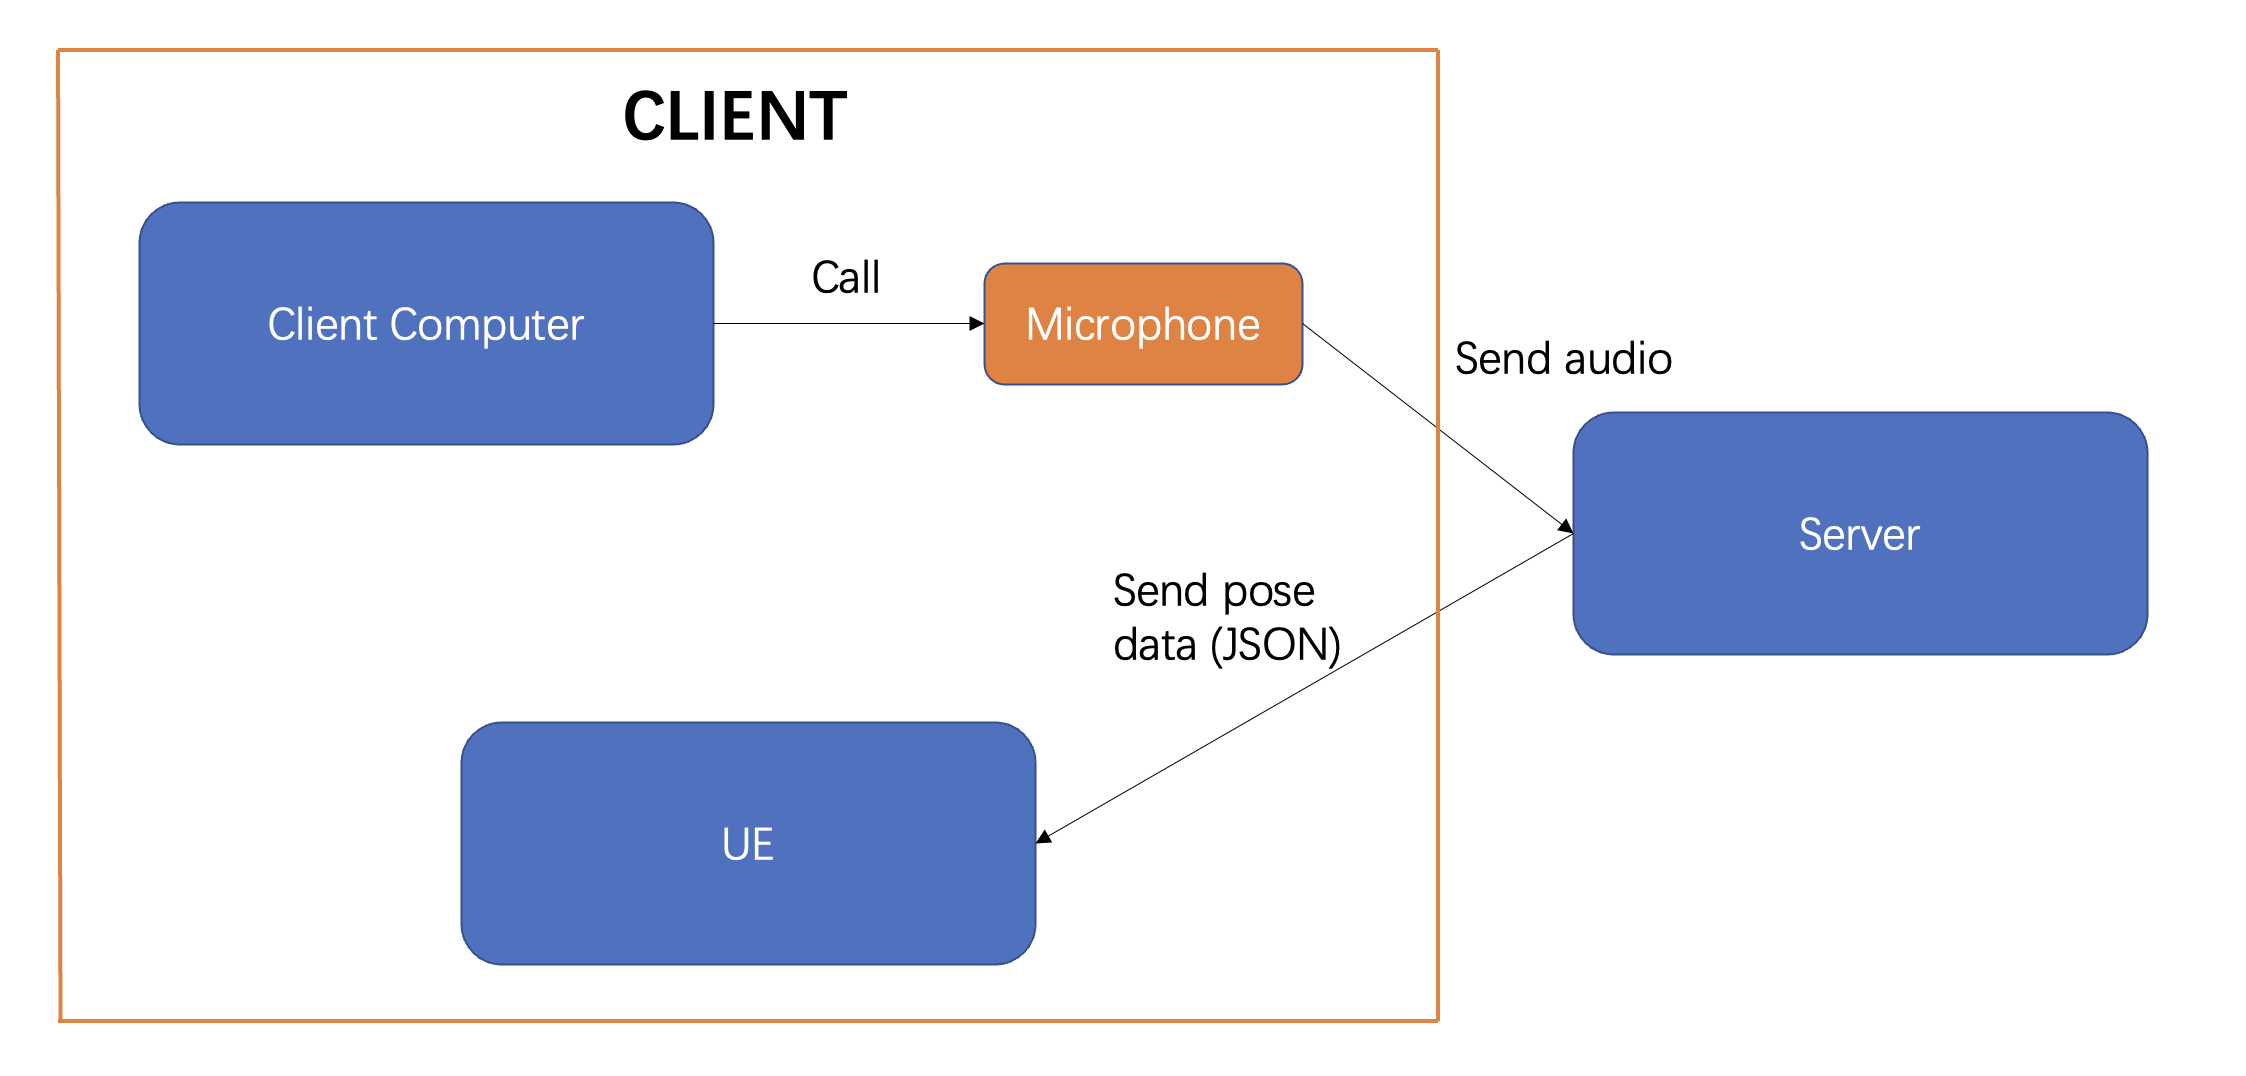
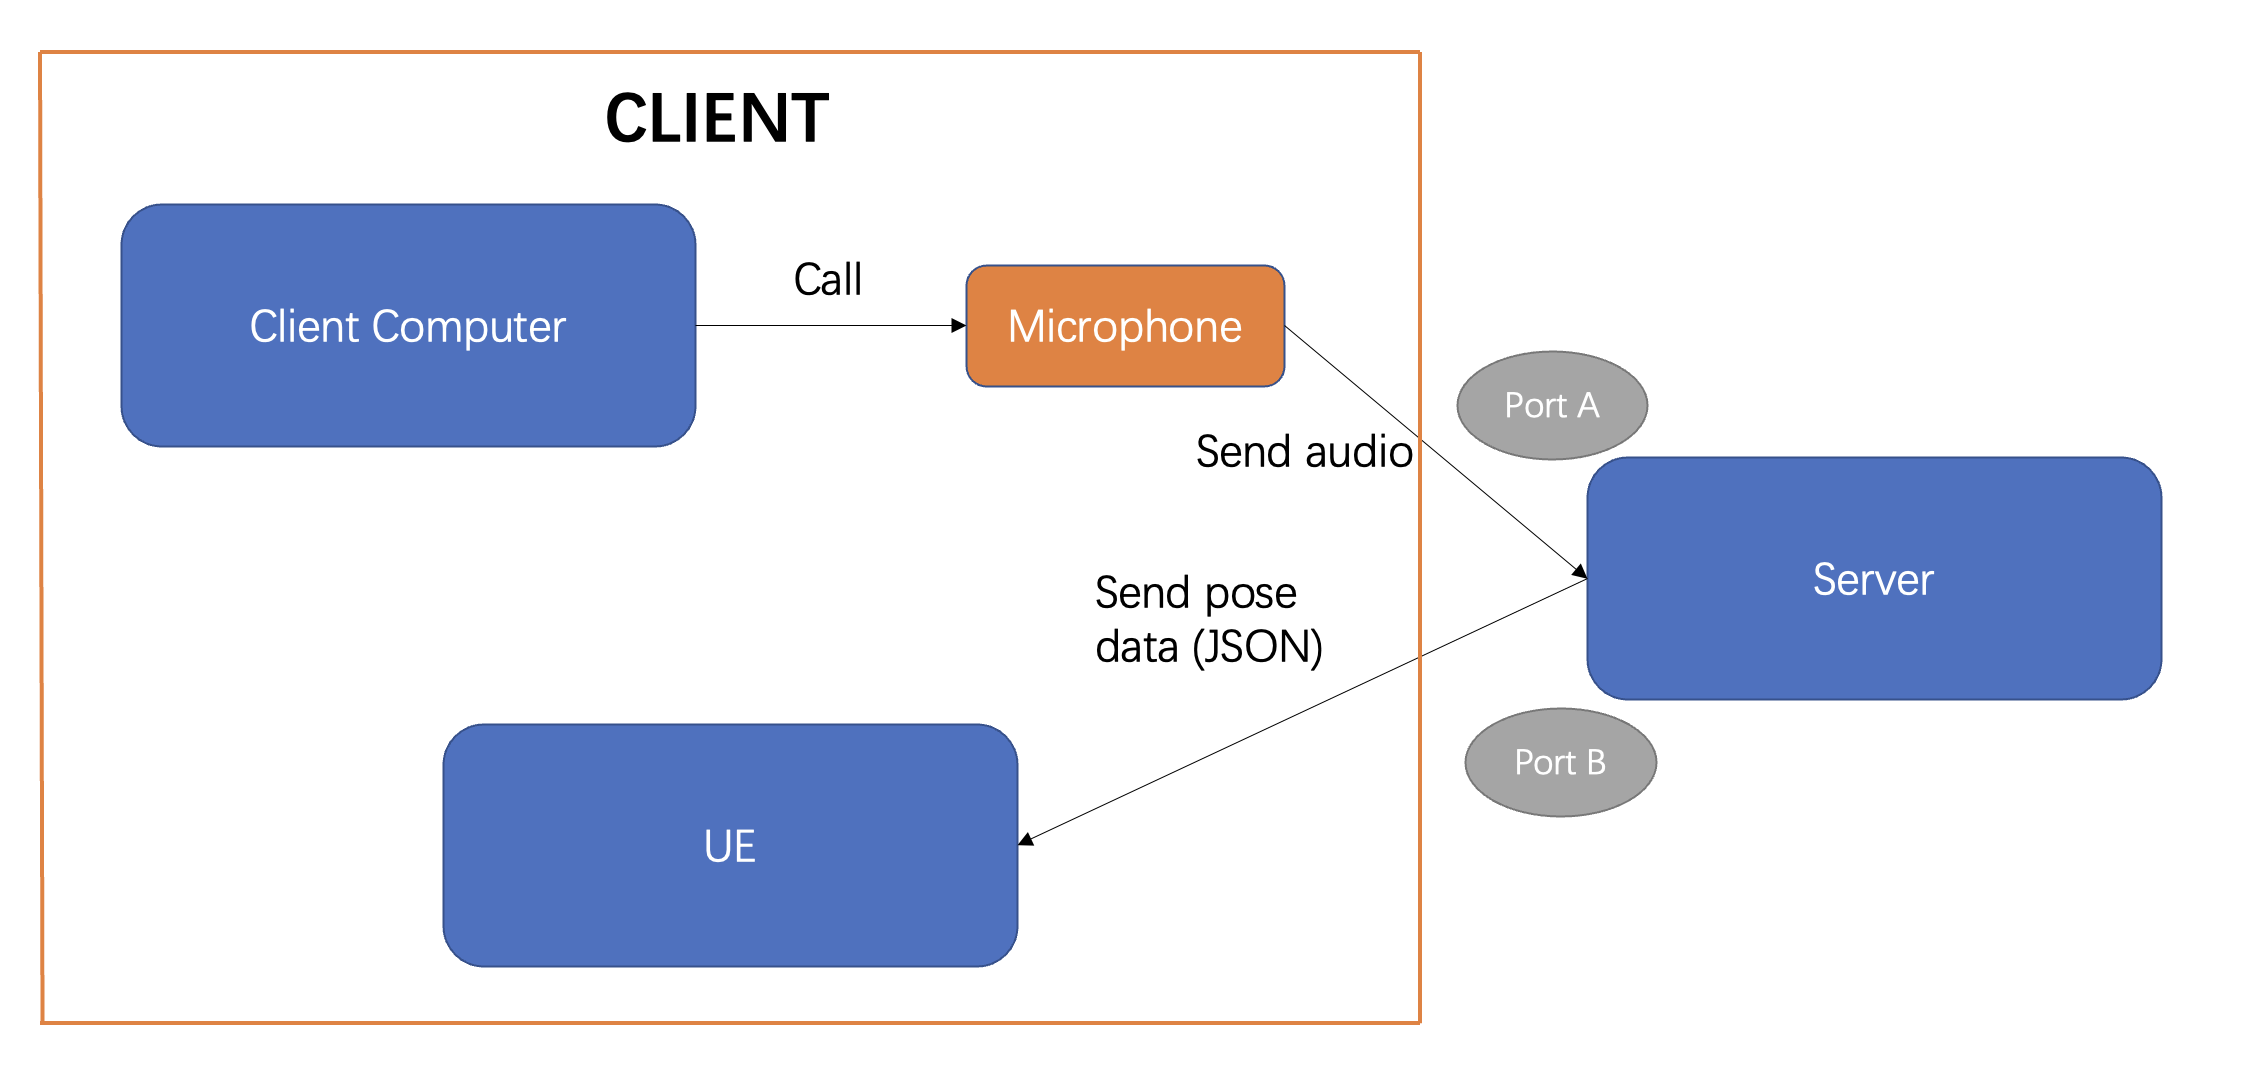
update readme.

diff --git a/README.md b/README.md
@@ -16,11 +16,15 @@ Add the OpenAI API key in `spoken_to_signed/config.py`.
 
 cd `spoken_to_signed/whisper_streaming`
 
+Change the `lexicon_path` in `whisper_online_server.py` : `"XXX/XXX/assets/dummy_lexicon"`
+
 ### Server
 
 ```
 python whisper_online_server.py --warmup-file samples_jfk.wav --lan en --backend openai-api
 ```
+
+You can also use `--host` and `--port` to change the *host* and *port*. 
 
 ### Client
 
@@ -74,6 +78,21 @@ Using socket to receive audio streaming and send pose data.
 
 ### Server
 
+Change the `lexicon_path` in `sign_language_server.py` : `"XXX/XXX/assets/dummy_lexicon"`
+
+In `Class ServerProcessor:` , you can set your Unreal Engine IP and the port where UE listens for Pose data. (Port B)
+
+```
+# UE port
+self.UE_HOST = "your-ue-ip" # Unreal Engine IP
+self.UE_PORT = 43008  # The port where UE listens for Pose data
+
+self.socket = socket.socket(socket.AF_INET, socket.SOCK_STREAM)
+self.socket.connect(("127.0.0.1", self.UE_PORT))  # ((self.UE_HOST, self.UE_PORT))
+```
+
+You can also use `--host` and `--port` to change the host and port for (Audio Streaming) Port A.
+
 ```
 python sign_language_server.py --warmup-file samples_jfk.wav --lan en --backend openai-api
 ```
@@ -86,5 +105,5 @@ python sign_language_server.py --warmup-file samples_jfk.wav --lan en --backend 
 
 
 
-P.S.: Pay attention to the server startup order. First open Port B on the UE, and then start sign_language_server.py.
+P.S.: Pay attention to the server startup order. First open Port B on UE, and then start sign_language_server.py.
 
